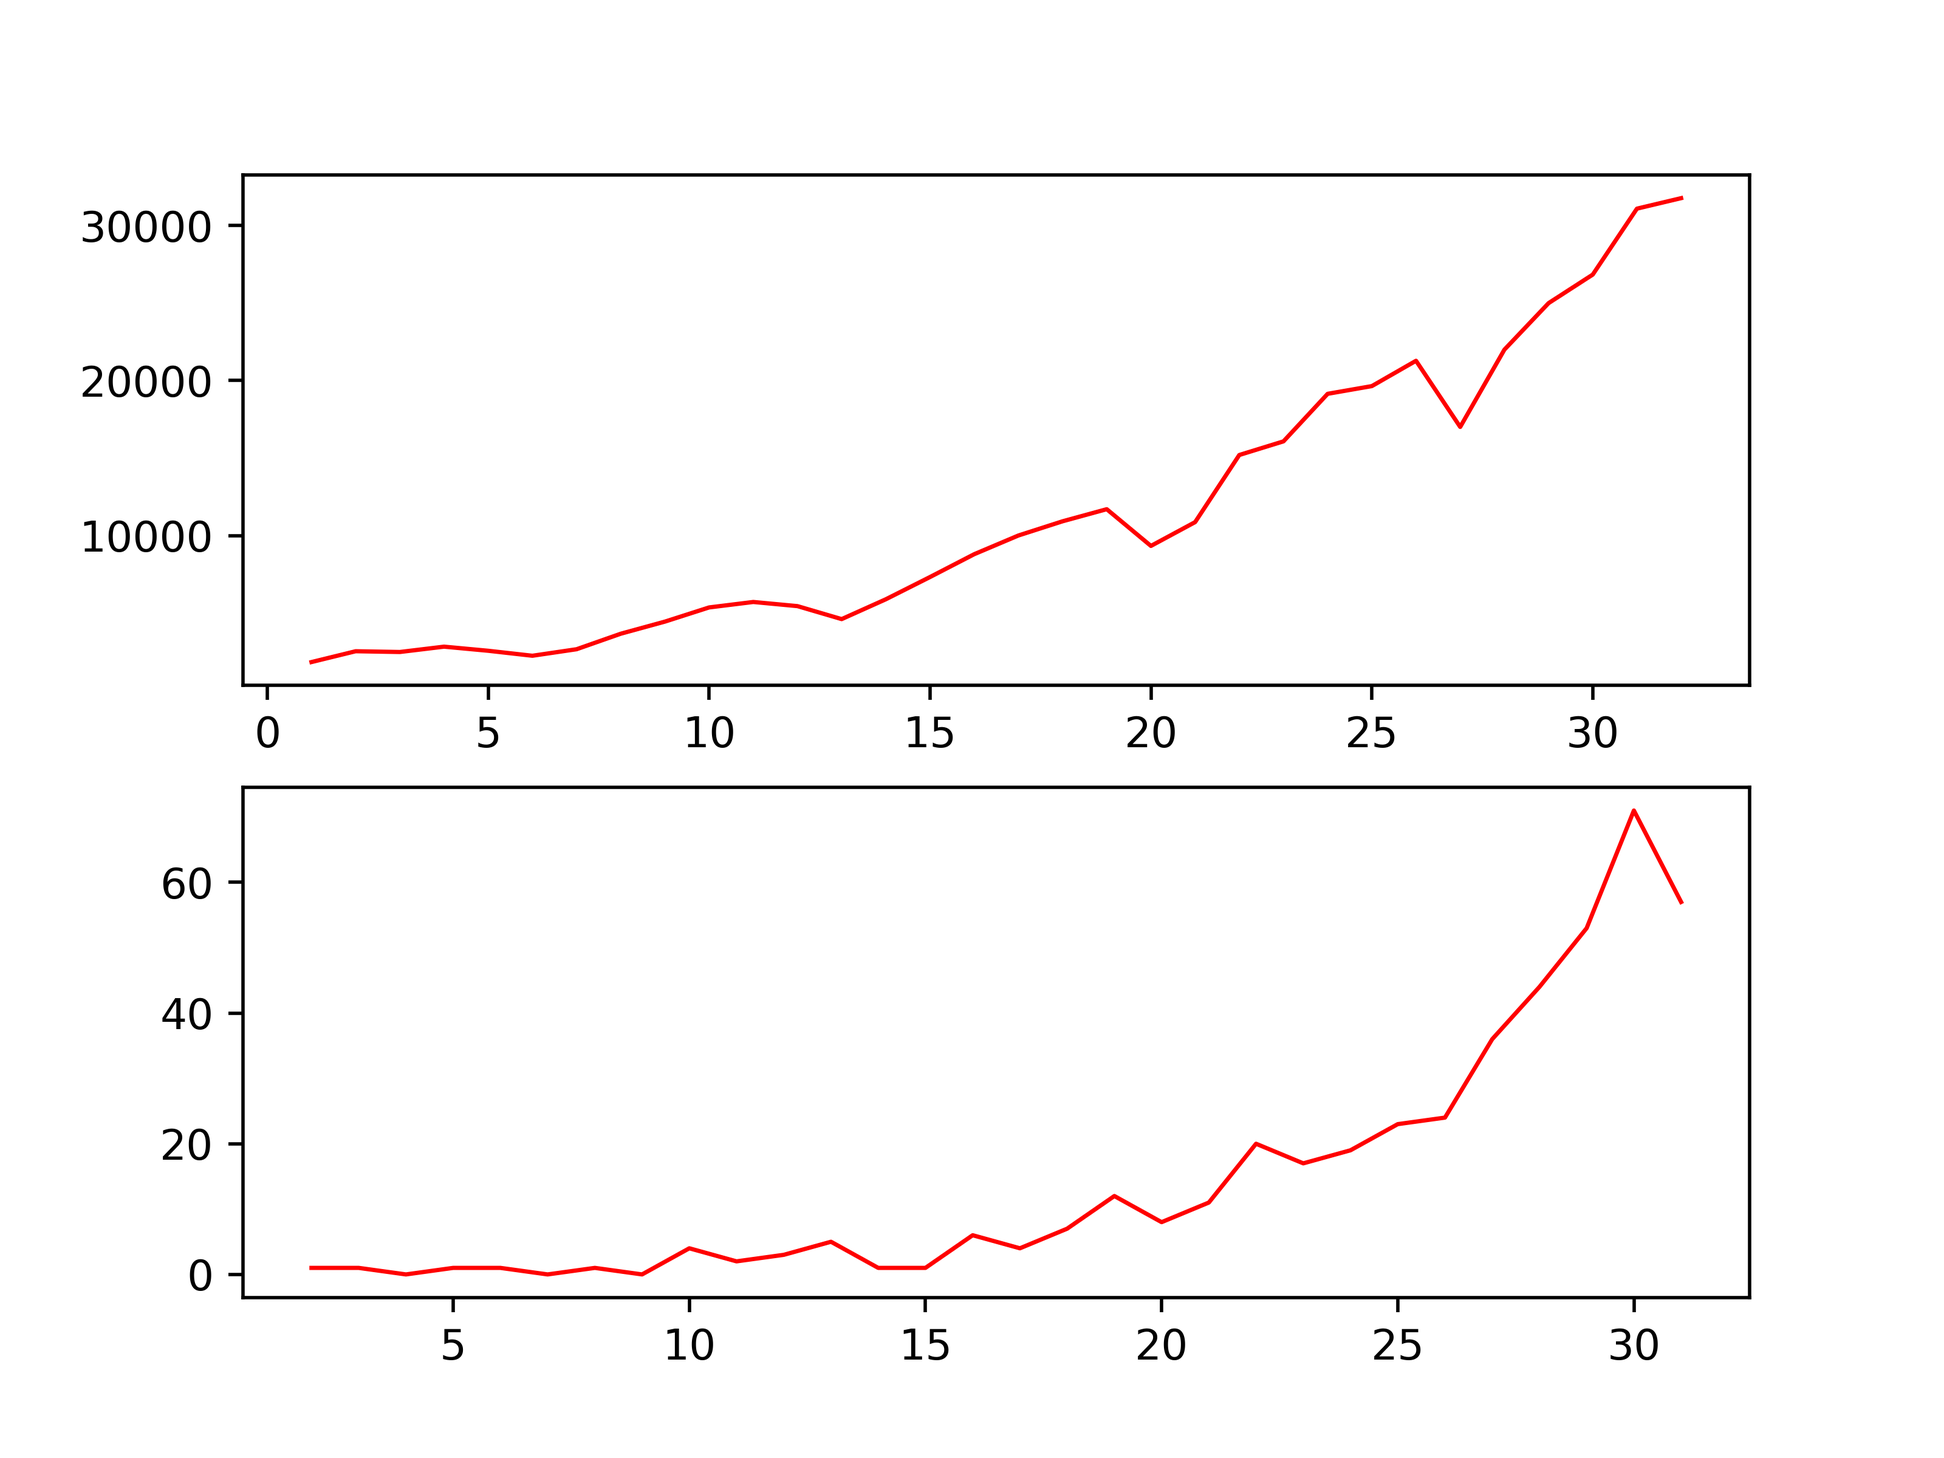
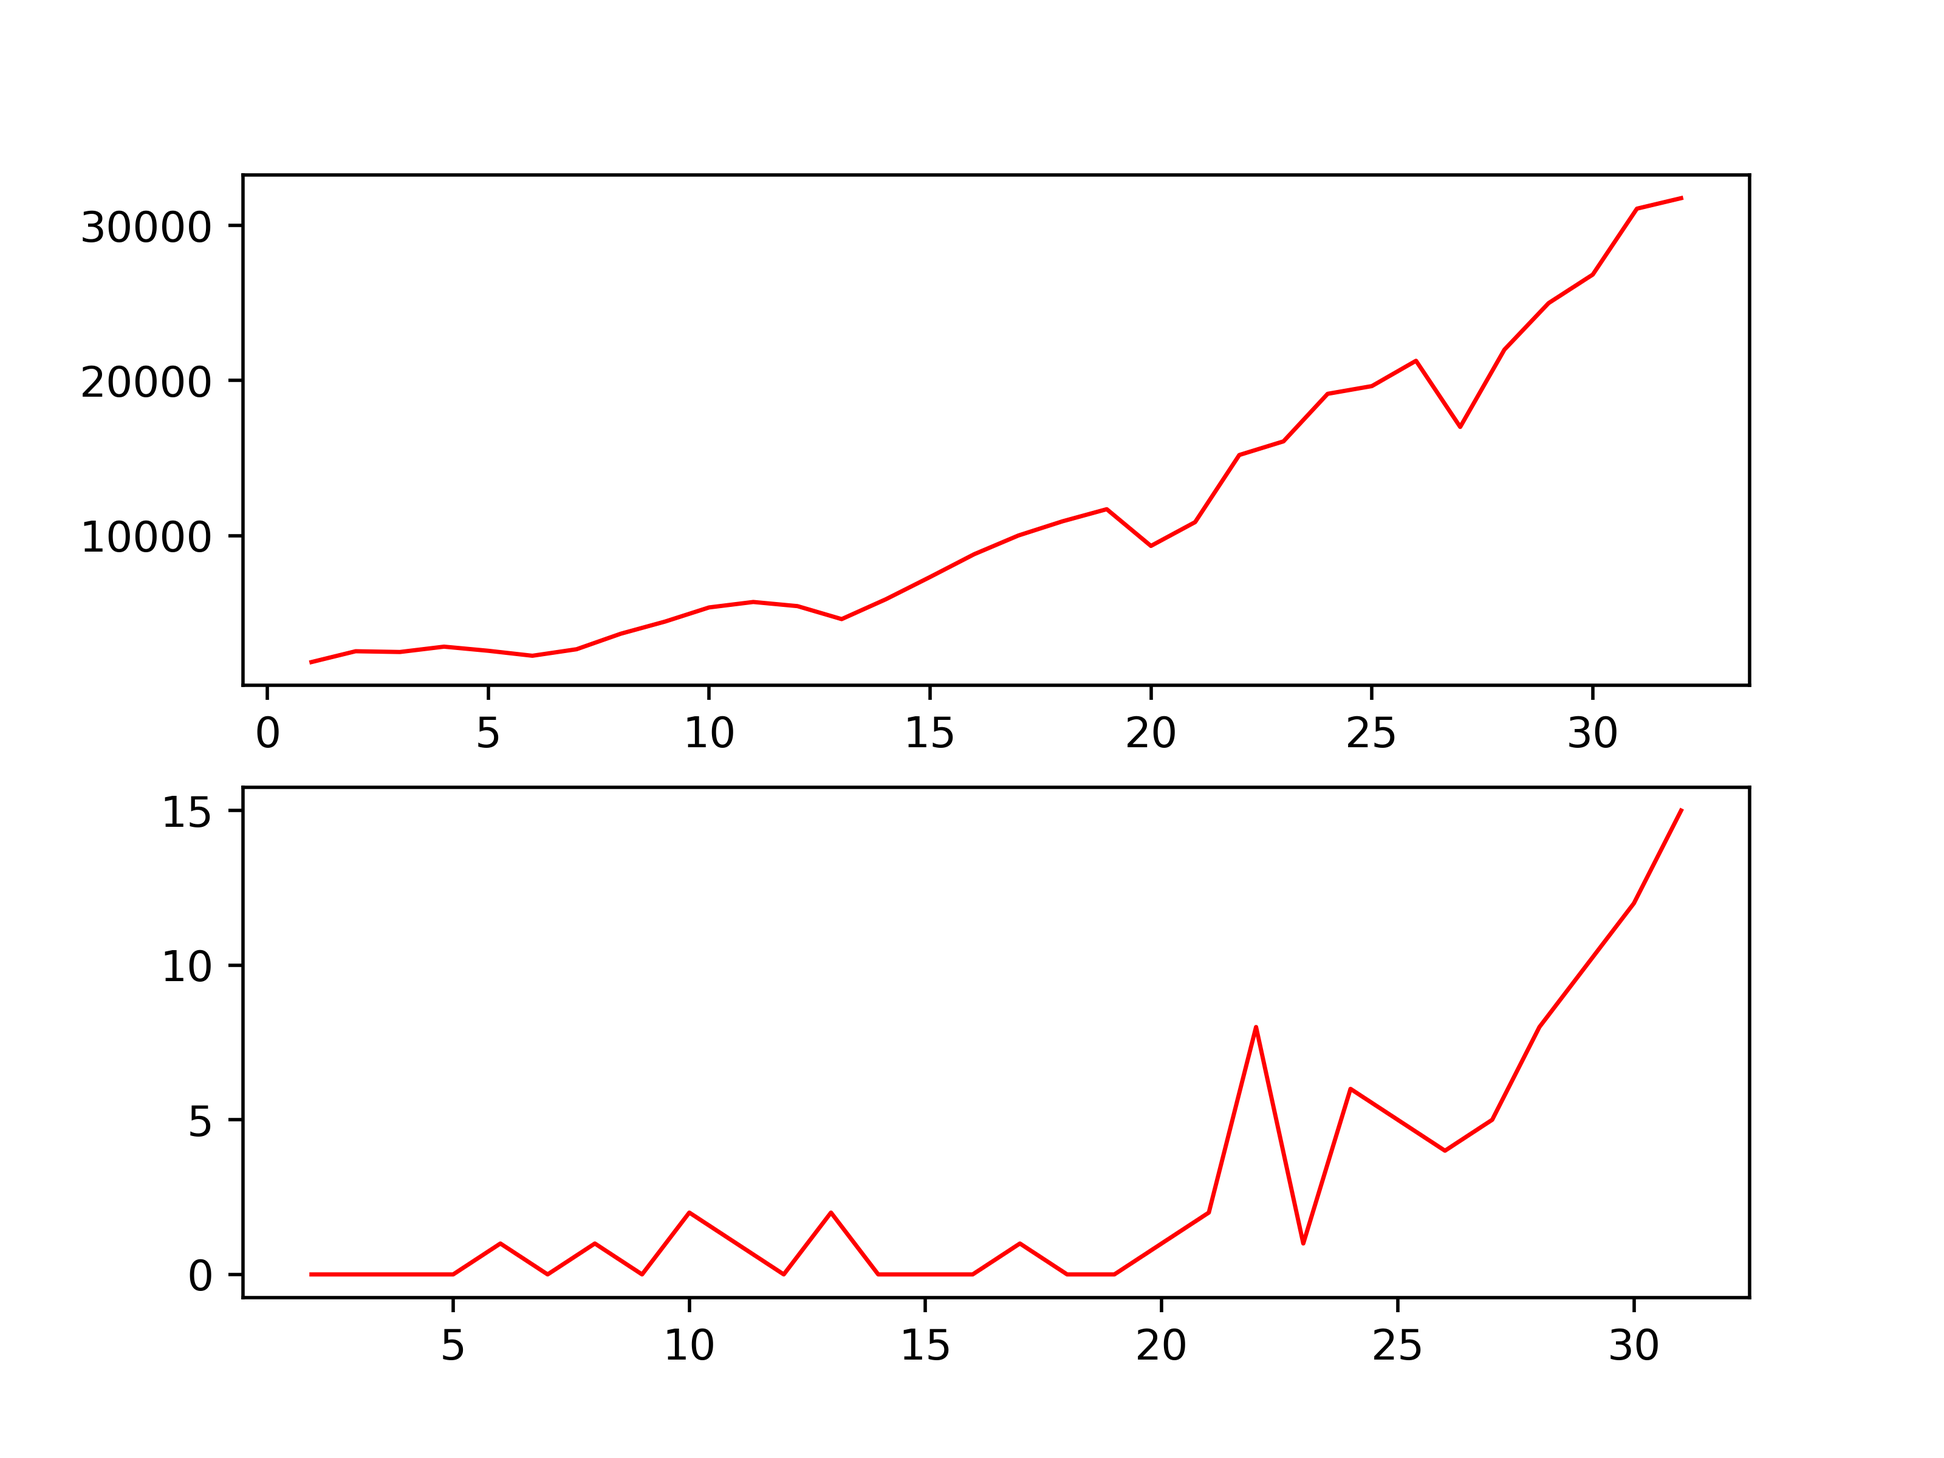
Improved Gillespie's algorithm and average run succeed

diff --git a/NS project/spread_lockdown-master/Gill_Sim.py b/NS project/spread_lockdown-master/Gill_Sim.py
@@ -7,20 +7,25 @@ import matplotlib.pyplot as plt
 import csv
 
 class Gill_Sim():
-    def __init__(self, d_G = Dynamic_Social_Net(n=1500), n_i = 3, default = True):
+    def __init__(self, d_G = Dynamic_Social_Net(n=1000), n_i = 3, default = True):
         if default:
             self.d_G = d_G
             self.N_I = n_i
+            self.FAMILIES = self.d_G.return_families()
             self.n_i = self.N_I #CURRENT infected
             G = self.d_G.return_graph()
             for n in list(G.nodes()):
                 G.nodes[n]['status'] = 'S'
+                G.nodes[n]['inf_days'] = 0 ###
+                G.nodes[n]['qua_days'] = 0 ###
             self.n_r = 0 #recovered
             self.n_d = 0 #death
+            self.n_q = 0  #CURRENT quarantine ###
             self.m_r = [] #recovered nodes list
             self.m_d = [] #death list
             self.m_i = [] #list of infected nodes
             self.m_i = np.random.choice(list(G.nodes), self.n_i)
+            self.m_q = []   #quarantine list ###
             for n in self.m_i:
                 G.nodes[n]['status'] = 'I'
             self.set_params()
@@ -36,97 +41,167 @@ class Gill_Sim():
         G = self.d_G.return_graph()
         for n in list(G.nodes()):
             G.nodes[n]['status'] = 'S'
+            G.nodes[n]['inf_days'] = 0 ###
+            G.nodes[n]['qua_days'] = 0 ###
         self.n_r = 0 #recovered
         self.n_d = 0 #death
+        self.n_q = 0  #CURRENT quarantine ###
         self.m_r = [] #recovered nodes list
         self.m_d = [] #death list
         self.m_i = [] #list of infected nodes
         self.m_i = np.random.choice(list(G.nodes), self.n_i)
+        self.m_q = []   #quarantine list ###
         for n in self.m_i:
             G.nodes[n]['status'] = 'I'
         self.data = {'susceptible':[len(G.nodes())-self.n_i], 'infected':[None], 'recovered_cum':[None],
                      'dead_cum':[None], 'total_inf':[self.n_i]}
 
-    def set_params(self, mu = 0.011, beta = 0.011, gamma = 0.001): #mu=recovery rate, beta=infection rate
-        # gamma = death rate
+    def set_params(self, mu = 0.03, beta = 0.01, gamma = 0.005, qua = 0.03, BEFORE_QUA = 8, AFTER_QUA = 10): #mu=recovery rate, beta=infection rate
+        # gamma = death rate, qua = quarantine rate, before_qua = n days before quarantine, after_qua = n days before exiting from quarantine
+        # ATTENTION TO HOW THE PARAMS ARE USED IN RUN() FUNCTION! 
         self.mu = mu
         self.beta = beta
         self.gamma = gamma
+        self.qua = qua ###
+        self.BEFORE_QUA = BEFORE_QUA###
+        self.AFTER_QUA = AFTER_QUA ###
         
     def run(self, T_sim = 30):
-        time = 10 #before there's no recovery 
+        #time = 10 ###
         Mu = self.mu #cumulative recovery rate
         Gamma = self.gamma #cumulative death rate
+        Qua = self.qua #cumulative quarantine rate ###
         tau = np.random.exponential(1) #normalized
         G = self.d_G.return_graph()
+        # when a member of one family is quarantined also other members are quarantined ###
+        l_r = [] # from Q to R (one can be recovered when is in quarantine)###
+        l_s = [] # from Q to S (family members quarantine because one among them is infected)###
         for k in self.data.keys():
             self.data[k] += [0]*T_sim #for data visualization
         for t in range(T_sim):
-            contactList = self.d_G.run_net(1)
+            ###contactList = self.d_G.run_net(1)
+            self.d_G.run_net(1)
             m_SI = [] #S nodes in contact with I nodes
-            #only people was in contact with infected and who is not recovered and dead
-            for (i, j) in contactList:
-                if i in self.m_i and j not in self.m_i and j not in self.m_d and j not in self.m_r:
-                    m_SI.append(j)
-                elif j in self.m_i and i not in self.m_i and i not in self.m_d and i not in self.m_r:
-                    m_SI.append(i)
-            l_SI = len(m_SI)
-            Beta = self.beta * l_SI #cumulative infection rate
-            Gamma = self.gamma * l_SI #cumulative death rate
-            Lambda = Mu + Beta +Gamma #cumulative transition rate      
+            #only people was in contact with infected and who is not recovered or dead or quarantined
+            for i in self.m_i:
+                for n in G.neighbors(i):
+                    if G.nodes[n]['status'] == 'S': m_SI.append(n)
+##            for (i, j) in contactList:
+##                if i in self.m_i and i not in self.m_q and j not in self.m_i and j not in self.m_d and j not in self.m_r: ###
+##                    m_SI.append(j)
+##                elif j in self.m_i and j not in self.m_q and i not in self.m_i and i not in self.m_d and i not in self.m_r: ###
+##                    m_SI.append(i)
+            Beta = self.beta * len(m_SI) #cumulative infection rate
+            Lambda = Mu + Beta + Gamma + Qua #cumulative transition rate ###      
             # check transition
             if Lambda<tau:  #no transition
                 tau -= Lambda
             else: #transition occurred
                 r = 1 #remaining fraction of time-step
                 while r * Lambda >= tau:
-                    z = np.random.choice(['I','R','D'], 1,
-                                         p=[Beta/Lambda, Mu/Lambda, Gamma/Lambda])
-                    #z = float(np.random.uniform(0,Lambda - np.finfo(float).eps))
-                    #if z<Beta: #infection transition
+                    z = np.random.choice(['I','R','D', 'Q'], 1,
+                                         p=[Beta/Lambda, Mu/Lambda, Gamma/Lambda, Qua/Lambda]) ###
                     if z == 'I' and len(m_SI):
                         m = int(np.random.choice(m_SI, 1))
                         G.nodes[m]['status'] = 'I' #node m infected
                         self.m_i = np.append(self.m_i, m)
                         self.n_i += 1
-                        Mu += self.mu
-                        Gamma += self.gamma
+                        G.nodes[m]['inf_days'] = 0
+                        #Mu += self.mu ###
+                        #Gamma += self.gamma ###  
                         self.data['infected'][t+1] += 1
                     #else:   #recovery transition
-                    elif z == 'R' and len(self.m_i) and t>time:
-                        m = int(np.random.choice(self.m_i, 1))
-                        G.nodes[m]['status'] = 'R' #node m recovered
-                        self.m_i = np.delete(self.m_i, np.argwhere(self.m_i==m)) #remove m
-                        self.n_i -=1
-                        self.n_r +=1
-                        Mu -= self.mu
-                        Gamma -= self.gamma
-                        self.m_r.append(m)
-                    else: #death transition
-                        if len(self.m_i):
-                            m = int(np.random.choice(self.m_i, 1))
+                    elif z == 'R': ### recovery transition
+                        sp = False #
+                        c = int(np.random.choice([0,1], 1))
+                        if c: #0 = infected list, 1 = quarantined list
+                            i_q = list(set(self.m_q) and set(self.m_i)) ### who are infected and quarantined
+                            if len(i_q): 
+                                m = int(np.random.choice(i_q, 1)) ###
+                                l_r.append(m) ###the infected ready to exit from quarantine 
+                            else:
+                                sp = True #everyone in quarantine list is S
+                        elif c==0 or sp: #SPONTANEOUS recovery
+                            if len(self.m_i):
+                                m = int(np.random.choice(list(self.m_i), 1))
+                                G.nodes[m]['status'] = 'R' #node m recovered
+                                self.m_i = np.delete(self.m_i, np.argwhere(self.m_i==m)) #remove m
+                                self.n_i -= 1
+                                self.m_r.append(m)
+                                self.n_r +=1
+                        if Mu>self.mu:  Mu -= self.mu
+                        if Gamma>self.gamma:    Gamma -= self.gamma
+                    elif z == 'D' and self.n_q: #death transition: one has to be quarantined (hospitalized) before death
+                        ###if len(self.m_i):
+                        i_q = list(set(self.m_q) and set(self.m_i)) ### who are infected and quarantined
+                        if len(i_q): 
+                            m = int(np.random.choice(i_q, 1)) ###
                             G.nodes[m]['status'] = 'D' #node m dies
-                            self.m_i = np.delete(self.m_i, np.argwhere(self.m_i==m)) #remove m
-                            self.n_i -=1
+                            self.m_q = np.delete(self.m_q, np.argwhere(self.m_q==m)) #remove m###
+                            self.n_q -=1 ###
                             self.n_d +=1
-                            #Mu -= self.mu #INVARIANT???
-                            Gamma -= self.gamma
+                            #Mu -= self.mu 
+                            if Gamma>self.gamma:  Gamma -= self.gamma
                             self.m_d.append(m)
-                            
+                    else: #quarantin transition ###
+                        if self.n_i:
+                            m = int(np.random.choice(self.m_i, 1)) #node m quarantined
+                            G.nodes[m]['status'] = 'Q'
+                            G.nodes[m]['qua_days'] = 0
+                            self.m_q = np.append(self.m_q, m)
+                            self.n_q += 1
+                            for f in self.FAMILIES: #quarantine family members (ONLY close contacts)
+                                if m in f:
+                                    i = f.index(m)
+                                    for n in f:
+                                        if n != i: #that is not the infected node
+                                            if G.nodes[n]['status']!='D' and G.nodes[n]['status']!='Q':
+                                                G.nodes[n]['status'] = 'Q' #member n is quarantined
+                                                G.nodes[m]['qua_days'] = 0
+                                                self.m_q = np.append(self.m_q, n)
+                                                self.n_q += 1
+                                                if G.nodes[n]['status'] == 'S': l_s += n 
+                                                if G.nodes[n]['status'] == 'R': l_r += n
+                                                
+                            if Qua>self.qua:  Qua -= self.qua
+                            Mu += self.mu
+                            Gamma += self.gamma
+ 
                     r -= tau/Lambda #remaining time fraction
                     ##### REDO, time is not expired yet #####
                     m_SI = [] #S nodes in contact with I nodes
-                    for (i, j) in contactList:
-                        if i in self.m_i and j not in self.m_i and j not in self.m_d and j not in self.m_r:
-                            m_SI.append(j)
-                        elif j in self.m_i and i not in self.m_i and i not in self.m_d and i not in self.m_r:
-                            m_SI.append(i)
+                    for i in self.m_i:
+                        for n in G.neighbors(i):
+                            if G.nodes[n]['status'] == 'S': m_SI.append(n)
+##                    for (i, j) in contactList:
+##                        if i in self.m_i and i not in self.m_q and j not in self.m_i and j not in self.m_d and j not in self.m_r: ###
+##                            m_SI.append(j)
+##                        elif j in self.m_i and j not in self.m_q and i not in self.m_i and i not in self.m_d and i not in self.m_r: ###
+##                            m_SI.append(i)
                     l_SI = len(m_SI)
                     Beta = self.beta * l_SI
-                    Gamma = self.gamma * l_SI
-                    Lambda = Mu + Beta + Gamma
+                    Lambda = Mu + Beta + Gamma + Qua
                     tau = np.random.exponential(1)
                     ##### REDO, time is not expired yet #####
+            ###Day+1. Add probability to Qua only if nodes are infected since many days before.
+            for n in self.m_i:
+                G.nodes[n]['inf_days'] += 1
+                if G.nodes[n]['inf_days']>self.BEFORE_QUA and G.nodes[n]['status'] == 'I':  Qua +=self.qua #G.nodes[n]['status'] != 'Q'
+            for n in self.m_q:
+                G.nodes[n]['qua_days'] += 1
+                if G.nodes[n]['qua_days']>self.AFTER_QUA: #end quarantine
+                    if n in l_s:
+                        G.nodes[n]['status']='S'
+                        l_s.remove(n)
+                        self.m_q = np.delete(self.m_q, np.argwhere(self.m_q==n)) #remove n
+                        self.n_q -= 1
+                    if n in l_r:
+                        G.nodes[n]['status']='R'
+                        l_r.remove(n)
+                        self.n_r +=1
+                        self.m_r.append(m)
+                        self.m_q = np.delete(self.m_q, np.argwhere(self.m_q==n)) #remove n
+                        self.n_q -= 1
             self.data['susceptible'][t+1] = self.data['susceptible'][t] - self.data['infected'][t+1]
             self.data['recovered_cum'][t+1] = self.n_r
             self.data['dead_cum'][t+1] = self.n_d
@@ -148,9 +223,10 @@ class Gill_Sim():
 ##            #print('N_death: ', self.n_d, 'death: ', list(self.m_d))   
 ##                print('N_death: ', self.data['dead_cum'][t+1], 'Increment: ',
 ##                      self.data['dead_cum'][t+1] - self.data['dead_cum'][t])
+##            print('CURRENT N_quarante: ', self.n_q)
 ##            print('Total_infected: ', self.data['total_inf'][t+1])
 ##            print('\n')
-            
+##            
     def return_d_graph_families(self):
         return self.d_G.return_families()
 

diff --git a/NS project/spread_lockdown-master/generate_network.py b/NS project/spread_lockdown-master/generate_network.py
@@ -54,7 +54,7 @@ class Social_Net():
                                 working_nodes.append(n)
                 BAG = nx.barabasi_albert_graph(n_work, self.ba_degree)
                 #print ('Workplace BA!')
-                self.degree_histogram(G=BAG, hist_file='workBA_hist.png', loglog_file='workBA_log.png')
+                #self.degree_histogram(G=BAG, hist_file='workBA_hist.png', loglog_file='workBA_log.png')
                 #map the BAG to the actual network edges
                 for pair in list(BAG.edges()):
                         self.G.add_edge(working_nodes[pair[0]], working_nodes[pair[1]], lockdown=False)
@@ -210,8 +210,6 @@ class Dynamic_Social_Net(Social_Net):
                                             interaction_prob=0.20, social_prob=0.01, rand_degree=5) #my choice
                         self.families = self.family_graph(n, self.G)    #added egdes between members
                         self.random_enumerate_families()
-                        self.hist_net = []
-                        self.update_hist_net()
                 else:
                         pass #complete?
 
@@ -226,11 +224,8 @@ class Dynamic_Social_Net(Social_Net):
                         i += 1
 
         def run_net(self, times = 10):
-                l = len(self.hist_net)
                 for t in range(times):
                         self.trigger()
-                        self.update_hist_net()
-                return self.hist_net[-1]
 
         def trigger(self):
                 self.G.clear_edges()
@@ -244,11 +239,7 @@ class Dynamic_Social_Net(Social_Net):
                 
         def return_families(self):
                 return self.families
-        
-        def update_hist_net(self):
-                self.hist_net.append([e for e in self.G.edges])
 
-        def return_hist_net(self):  return self.hist_net
 '''
 if __name__ == '__main__':
         My = Social_Net(complete_net=False)
@@ -267,11 +258,3 @@ if __name__ == '__main__':
         #plt.show()
         #nx.write_graphml(G, 'tenk_net.graphml')
 '''
-if __name__ == '__main__':
-        A = Dynamic_Social_Net(10)
-        print('Initial info: ', nx.info(A.return_graph()))
-        print('Families: ', A.return_families())
-        print('Initial edges: ', list(A.return_graph().edges))
-        A.run_net()
-        print('History: ', A.return_hist_net())
-        nx.write_gexf(A.return_graph(), "Dynamic_last.gexf")

diff --git a/NS project/spread_lockdown-master/My_average_run.py b/NS project/spread_lockdown-master/My_average_run.py
@@ -9,8 +9,8 @@ import statistics
 from generate_network import Dynamic_Social_Net
 
 
-def test_average(start='2020-10-01', end='2020-11-01', N = 10, days = 30):
-    s = Gill_Sim(Dynamic_Social_Net(n=100))
+def test_average(start='2020-10-01', end='2020-11-01', N = 30, days = 30):
+    s = Gill_Sim(Dynamic_Social_Net(n=1000))
     datacum = {'infected' : [[] for i in range(days)]}
     avgdict = {'infected' : [0 for i in range(days)]}
     stdict = {'infected' : [0 for i in range(days)]}
